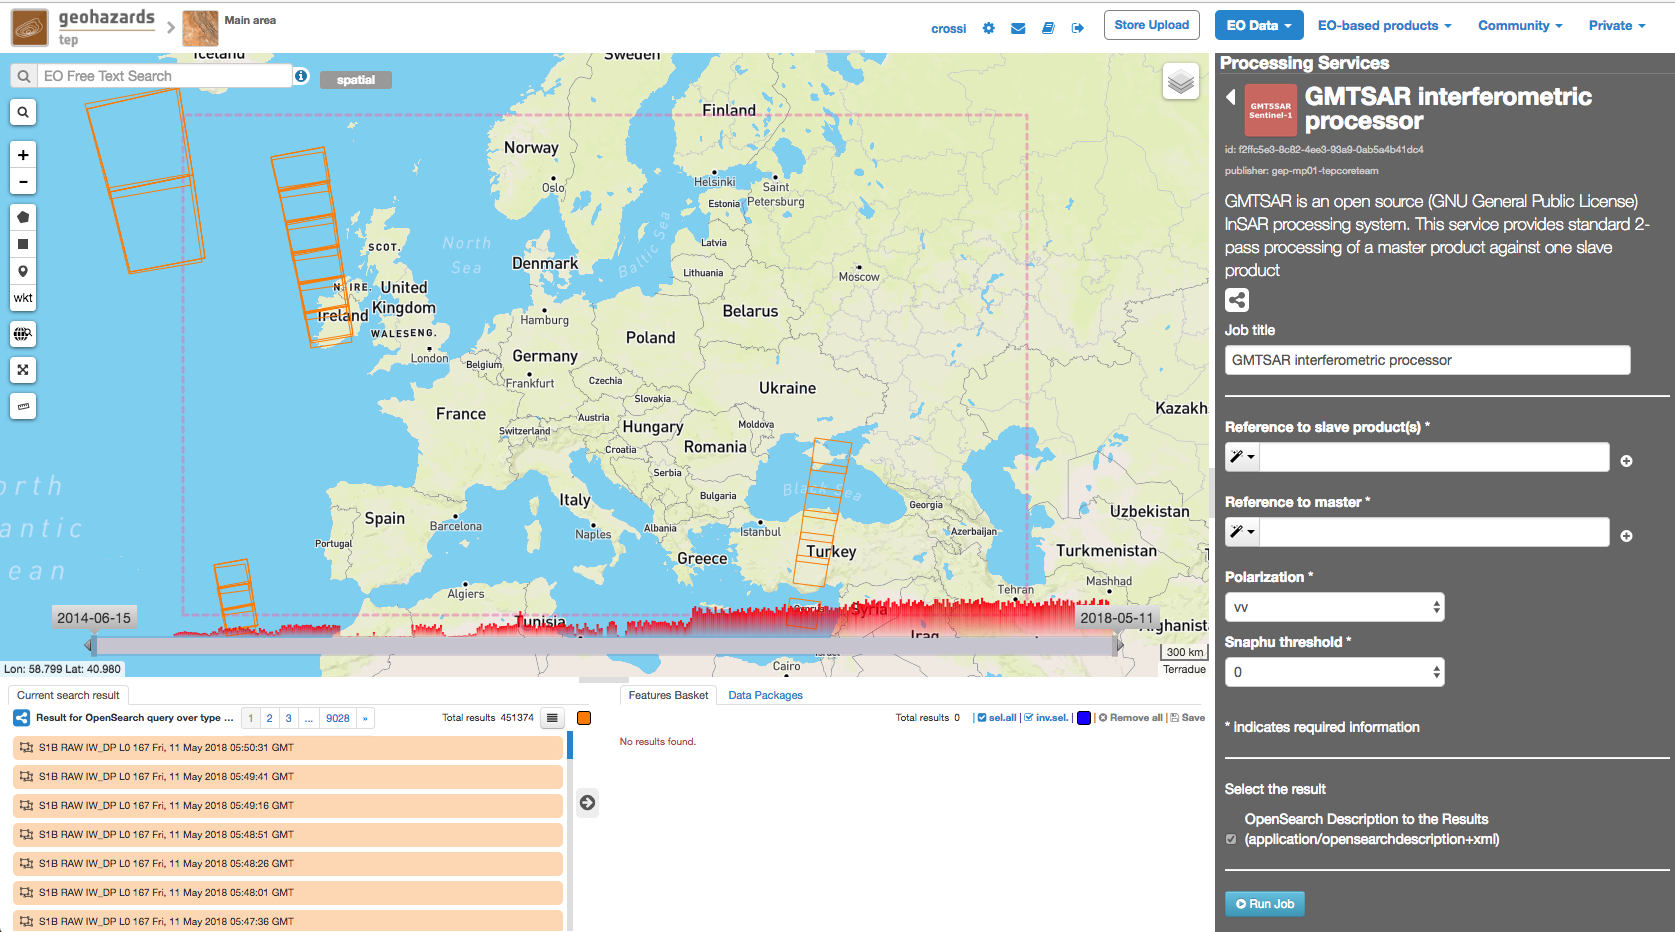
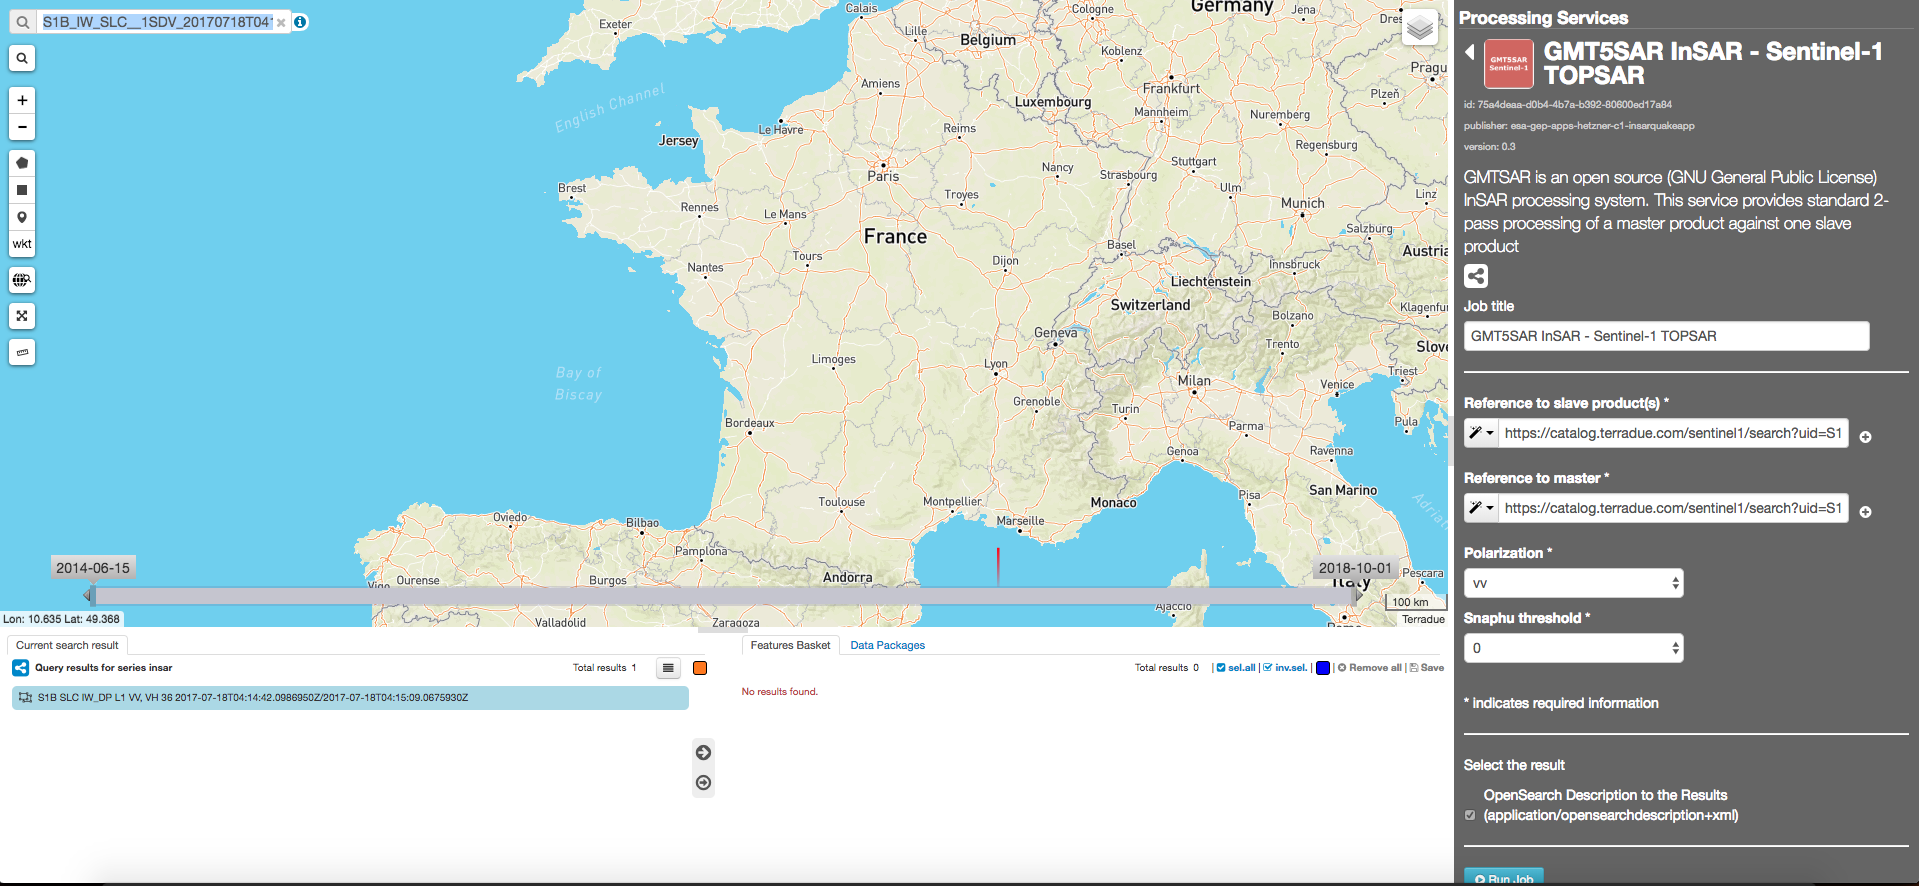
up gmtsar tuto

diff --git a/source/tutorials/gmtsar_s1.rst b/source/tutorials/gmtsar_s1.rst
@@ -1,10 +1,10 @@
-GMT5SAR for Sentinel-1
-~~~~~~~~~~~~~~~~~~~~~~
+GMTSAR InSAR - Sentinel-1 TOPSAR
+~~~~~~~~~~~~~~~~~~~~~~~~~~~~~~~~
 
 .. image:: assets/tuto_gmtsar_icon_S1.png
 	:width: 120px
 
-**GMT5SAR interferometric processor**
+**GMTSAR InSAR - Sentinel-1 TOPSAR**
 
 GMT5SAR is an open source (GNU General Public License) InSAR processing system. This service provides standard 2-pass processing of a master product against one or more slave products.
 
@@ -15,9 +15,9 @@ GMT5SAR is an open source (GNU General Public License) InSAR processing system. 
 
 **Output specifications**
 
-    - xxxxxxxx
-    - xxxxxxxx
-    - xxxxxxxx
+    - amplitude of interferogram (display_amp.ps)
+    - phase of interferogram (phase.ps)
+    - correlation of interferogram (corr.ps)
 
 -----
 
@@ -44,21 +44,21 @@ The "GMT5SAR Interferometric Processor" panel is displayed with parameters value
 Fill the parameters
 ===================
 
-.. NOTE:: slave and master can be picked up by using the following data package (alternatively to the search steps described): **BajaCaliforniaEQ**
+.. NOTE:: slave and master are automatically set with default values that you can use for the purpose of this tutorial (if so you can skip the 2 following sections).
 
 Slave product reference
 -----------------------
 
-* Select **EO Data / Envisat** as data collection.
+* Select **EO Data / Sentinel-1 / SLC** as data collection.
 
-* Type **ASA_IM__0P** in the Search Terms field (1):
+* Type **S1B_IW_SLC__1SDV_20170718T041442_20170718T041509_006537_00B7E8_BD0D** in the Search Terms field (1):
 
 .. figure:: assets/s1_1_1.png
 	:figclass: align-center
         :width: 750px
         :align: center
 
-* Click on Show Other Parametersand apply the date value **2010-05-02** in both:
+* Click on Show Other Parameters and apply the date value **2017-07-18** in both:
 - time:start field
 - time:end field
 then click on the button **Search**:
@@ -70,7 +70,7 @@ then click on the button **Search**:
 
 * Drag and Drop the first result in the *Slave product reference* field:
 
-.. figure:: assets/s1_1_2.png
+.. figure:: assets/s1_1_1.png
 	:figclass: align-center
         :width: 750px
         :align: center
@@ -78,16 +78,18 @@ then click on the button **Search**:
 Master product reference
 ------------------------
 
+* Type **S1A_IW_SLC__1SDV_20170724T041510_20170724T041538_017608_01D766_AB23** in the Search Terms field (1):
+
 * Perform the same procedure described previously (`Slave product reference`_), using the value **2010-03-28** in both the **time:start** field and the **time:end** field:
 
-.. figure:: assets/s1_1_3.png
+.. figure:: assets/s1_1_2.png
 	:figclass: align-center
         :width: 750px
         :align: center
 
 * Drag and drop the first result in the *Master product reference* field:
 
-.. figure:: assets/s1_1_3.png
+.. figure:: assets/s1_1_2.png
 	:figclass: align-center
         :width: 750px
         :align: center
@@ -97,7 +99,7 @@ Polarization
 
 * Select the Polarization
 
-.. figure:: assets/s1_1_3.png
+.. figure:: assets/s1_1_2.png
 	:figclass: align-center
         :width: 750px
         :align: center
@@ -107,7 +109,7 @@ Snaphu threshold
 
 * Select the Snaphu threshold
 
-.. figure:: assets/s1_1_3.png
+.. figure:: assets/s1_1_2.png
 	:figclass: align-center
         :width: 750px
         :align: center

diff --git a/source/tutorials/gmtsar.rst b/source/tutorials/gmtsar.rst
@@ -1,9 +1,9 @@
-GMT5SAR for ERS and ENVISAT
-~~~~~~~~~~~~~~~~~~~~~~~~~~~
+GMTSAR InSAR - Stripmap
+~~~~~~~~~~~~~~~~~~~~~~~
 
 .. image:: assets/tuto_gmtsar_icon.png
         
-**GMT5SAR interferometric processor**
+**GMT5SAR InSAR - Stripmap**
 
 GMT5SAR is an open source (GNU General Public License) InSAR processing system. This service provides standard 2-pass processing of a master product against one or more slave products.
 
@@ -57,7 +57,7 @@ Slave product reference
         :width: 750px
         :align: center
 
-* Click on Show Other Parametersand apply the date value **2010-05-02** in both:
+* Click on Show Other Parameters and apply the date value **2010-05-02** in both:
 - time:start field
 - time:end field
 then click on the button **Search**:
